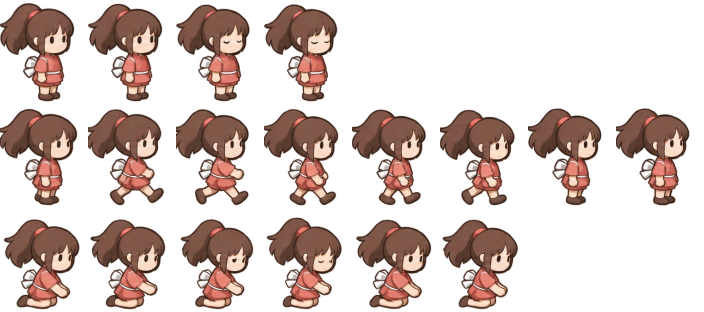
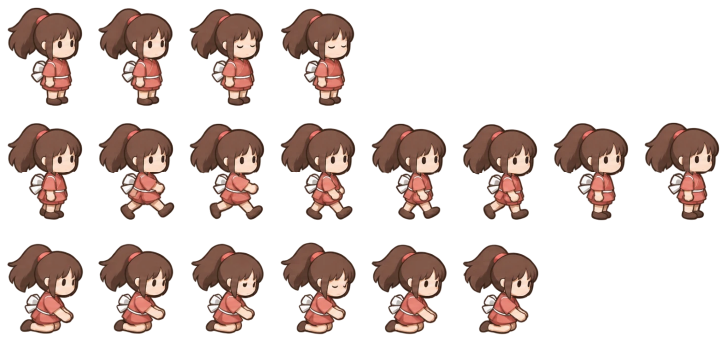
남은 손님 스프라이트 시트 적용, 주인공 걷기 머리 고정
- 얼굴 없는 손님: 둥근 가면·금 간 자국·머리 위 수건의 새 디자인 시트 적용,
  시트가 없을 때 쓰는 코드 그림도 같은 디자인으로 교체
- 일반 손님 8명 시트 적용: 버섯 할멈·돌거북 신·달토끼·학 선인·연잎 개구리 신·
  호랑나비 아씨·방망이 도깨비·눈꽃 정령 (이제 모든 손님이 시트로 그려짐)
- 시트마다 걷기·탕 속 프레임 수와 기뻐하는 칸을 지정 가능 (walkN·bathN·happy)
- 호랑나비 아씨·눈꽃 정령은 바닥에서 띄워 떠다니게
- 주인공 걷기 프레임 8장에 대기 모습의 머리를 그대로 붙여 걸을 때 머리 크기가 바뀌지 않게
- 버섯 할멈이 탕에서 얼굴까지 잠기지 않게 깊이 조정

Changed region(s): [[0.0, 0.0, 1.0, 0.6635], [0.0, 0.6923, 0.75, 1.0]]

diff --git a/js/data.js b/js/data.js
@@ -306,7 +306,7 @@ const SPECIALS = {
     gift: { id: 'fuel', name: '구름 구슬', desc: '보일러 장작이 천천히 닳는다 (소모 −30%)' },
   },
   kaonashi: {
-    name: '얼굴 없는 손님', alias: '검은 그림자', h: 76, bathY: 24,
+    name: '얼굴 없는 손님', alias: '검은 그림자', h: 66, bathY: 24,
     request: { temp: 37, herbs: ['yeon'] }, bath: 30, reward: 0,
     days: [
       { title: '검은 그림자', intro: '요즘 밤마다 검은 그림자를 봤다는 일꾼들이 있다.\n연못가와 창고 구석을 유심히 살펴보자.' },
@@ -494,11 +494,12 @@ const SPECIAL_ENDING = [
  */
 const ASSET_MANIFEST = {
   title_bg: { src: 'assets/title/title_bg.webp' },
-  // 플레이어: 88×104 칸, 1줄 대기(눈 깜빡임) · 2줄 걷기 8프레임 · 3줄 앉아서 작업
+  // 플레이어: 91×114 칸, 1줄 대기(눈 깜빡임) · 2줄 걷기 8프레임 · 3줄 앉아서 작업
+  // 걷기 프레임은 모두 대기 0번의 머리를 그대로 붙여 씀 (걸을 때 머리 크기가 바뀌지 않게)
   chihiro: {
-    src: 'assets/chars/chihiro.png', ax: 0.5, ay: 101 / 104, scale: 0.52,
+    src: 'assets/chars/chihiro.png', ax: 0.4954, ay: 105 / 114, scale: 0.52,
     sheet: {
-      fw: 88, fh: 104,
+      fw: 91, fh: 114,
       anims: {
         idle:  { row: 0, seq: [0, 0, 0, 0, 0, 0, 0, 0, 0, 0, 0, 0, 1, 2, 3, 2, 1], fps: 8 },
         // 걷기: 보폭 프레임과 발 모은 프레임을 번갈아 → 한 발짝마다 리듬이 생김.
@@ -516,16 +517,32 @@ const ASSET_MANIFEST = {
   spiderElder: specialSheet('spiderElder', 181, 139, 0.5914, 135, 0.5, 4, 26, { walk: 1.15, bath: 0.8 }),
   sansin: specialSheet('sansin', 134, 108, 0.4723, 103, 0.6, 4, 20, { walk: 1.05, bath: 0.9 }),
   imugi: specialSheet('imugi', 130, 119, 0.5472, 110, 0.59, 4, 24, { walk: 1.5, bath: 0.8 }),
+  kaonashi: specialSheet('kaonashi', 144, 154, 0.5322, 150, 0.455, 3, 18),
   // 일반 손님도 같은 3줄 형식 시트를 쓸 수 있다 (h: 초상화 크기 맞춤용 키)
   moss: { ...specialSheet('moss', 164, 148, 0.4728, 143, 0.33, 4, 11, { walk: 1.12, bath: 0.78 }), h: 44 },   // 이끼 노인
   // 등롱 요괴: 떠다니는 손님이라 float(px)만큼 바닥에서 띄우고 살짝 오르내린다
   lantern: { ...specialSheet('lantern', 161, 135, 0.5553, 131, 0.32, 4, 14), h: 42, float: 7 },
   fox: { ...specialSheet('fox', 178, 120, 0.489, 116, 0.38, 4, 14), h: 42 },   // 여우불 아가씨
   river: { ...specialSheet('river', 177, 134, 0.4534, 118, 0.42, 4, 12), h: 42, float: 6 },   // 강물 정령 (떠다님)
+  mushroom: { ...specialSheet('mushroom', 139, 144, 0.4658, 140, 0.32, 3, 5), h: 44 },   // 버섯 할멈
+  turtle: { ...specialSheet('turtle', 178, 138, 0.4247, 133, 0.38, 3, 14, { walk: 1.2, bath: 0.9 }), h: 46 },   // 돌거북 신
+  rabbit: { ...specialSheet('rabbit', 146, 165, 0.4828, 158, 0.29, 3, 14, { walk: 1.2, bath: 0.92 }), h: 44 },   // 달토끼
+  crane: { ...specialSheet('crane', 113, 150, 0.4304, 146, 0.36, 3, 16, { walk: 1.13, bath: 0.9, walkN: 7, bathN: 5, happy: 3 }), h: 48 },   // 학 선인
+  frog: { ...specialSheet('frog', 144, 156, 0.5133, 152, 0.31, 3, 14, { walk: 1.15, bath: 0.93, walkN: 7 }), h: 44 },   // 연잎 개구리 신
+  butterfly: { ...specialSheet('butterfly', 132, 159, 0.498, 155, 0.30, 3, 14, { walk: 1.07, bath: 0.95, bathN: 5 }), h: 44, float: 5 },   // 호랑나비 아씨 (날갯짓하며 떠다님)
+  dokkaebi: { ...specialSheet('dokkaebi', 124, 136, 0.4866, 131, 0.35, 3, 12), h: 44 },   // 방망이 도깨비
+  snow: { ...specialSheet('snow', 118, 145, 0.5284, 134, 0.33, 3, 14), h: 44, float: 5 },   // 눈꽃 정령 (떠다님)
 };
 /* 특별한 손님 시트 정의: fw·fh 칸 크기, ax 기준점 가로 위치, foot 발 높이, scale 그릴 크기,
  * idleN 대기 프레임 수, bathY 탕 속에 잠기는 깊이(px),
- * size 걷기·탕 속 줄의 크기 배율 — 원본 시트에서 줄마다 그려진 크기가 달라서 대기 모습 크기에 맞춘다 */
+ * size 걷기·탕 속 줄의 크기 배율 — 원본 시트에서 줄마다 그려진 크기가 달라서 대기 모습 크기에 맞춘다
+ *   walkN·bathN: 걷기·탕 속 프레임 수(기본 6·4), happy: 탕 속에서 기뻐하는 칸 번호(기본 2) */
+/* 탕 속 프레임 순서: 기뻐하는 칸을 뺀 나머지를 두 박자씩 오가다 끝에 기뻐하는 칸 */
+function bathSeq(n, happy) {
+  const rest = [...Array(n).keys()].filter(i => i !== happy);
+  const loop = [...rest, ...rest.slice(1, -1).reverse()].flatMap(i => [i, i]);
+  return [...loop, happy, happy, happy];
+}
 function specialSheet(key, fw, fh, ax, foot, scale, idleN, bathY, size = {}) {
   return {
     src: `assets/chars/${key}.png`, ax, ay: foot / fh, scale, bathY,
@@ -533,8 +550,8 @@ function specialSheet(key, fw, fh, ax, foot, scale, idleN, bathY, size = {}) {
       fw, fh,
       anims: {
         idle:    { row: 0, seq: idleN === 3 ? [0, 1, 2, 1] : [0, 1, 2, 3, 2, 1], fps: 4 },
-        walk:    { row: 1, seq: [0, 1, 2, 3, 4, 5], fps: 9, scale: size.walk || 1 },
-        bath:    { row: 2, seq: [0, 0, 1, 1, 3, 3, 1, 1, 0, 0, 2, 2, 2], fps: 3, scale: size.bath || 1 },
+        walk:    { row: 1, seq: [...Array(size.walkN || 6).keys()], fps: 9, scale: size.walk || 1 },
+        bath:    { row: 2, seq: bathSeq(size.bathN || 4, size.happy ?? 2), fps: 3, scale: size.bath || 1 },
         bathOff: { row: 2, seq: [0, 1], fps: 2, scale: size.bath || 1 },   // 물이 차갑거나 뜨거울 때 — 웃는 얼굴 없이
       },
     },

diff --git a/js/render.js b/js/render.js
@@ -671,26 +671,35 @@ const Render = (() => {
     ctx.restore();
   }
 
+  /* 얼굴 없는 손님: 시트가 없을 때 쓰는 코드 그림 — 시트와 같은 디자인(둥근 가면 · 금 간 자국 · 머리 위 수건) */
   function kaonashi(ctx, x, y, t, alpha = 1, o = {}) {
     if (specialSprite(ctx, 'kaonashi', x, y, t, alpha, o)) return;
     ctx.save();
     ctx.translate(x, y);
     ctx.globalAlpha *= alpha;
-    ell(ctx, 0, 0, 14, 5, 'rgba(0,0,0,0.3)');
-    const sway = Math.sin(t * 1.6) * 1.5;
-    ctx.fillStyle = 'rgba(14,11,20,0.92)';
-    ctx.beginPath(); ctx.moveTo(-15, 0);
-    ctx.bezierCurveTo(-16 + sway * 0.3, -30, -13 + sway, -66, sway, -68);
-    ctx.bezierCurveTo(13 + sway, -66, 16 + sway * 0.3, -30, 15, 0);
-    ctx.quadraticCurveTo(0, 4, -15, 0);
+    ell(ctx, 0, 0, 15, 5, 'rgba(0,0,0,0.3)');
+    const sway = Math.sin(t * 1.6) * 1.2;
+    // 두건을 쓴 남색 몸
+    ctx.fillStyle = '#25283b';
+    ctx.beginPath(); ctx.moveTo(-17, 0);
+    ctx.bezierCurveTo(-18, -28, -15 + sway * 0.5, -58, sway, -60);
+    ctx.bezierCurveTo(15 + sway * 0.5, -58, 18, -28, 17, 0);
+    ctx.quadraticCurveTo(0, 4, -17, 0);
     ctx.fill();
-    const mx = sway * 0.9, my = -50;
-    ell(ctx, mx, my, 8.5, 11.5, '#f4f1ea');
-    ell(ctx, mx - 3.6, my - 2, 2.1, 1.3, '#1a1420'); ell(ctx, mx + 3.6, my - 2, 2.1, 1.3, '#1a1420');
-    ctx.fillStyle = '#7a4c8c';
-    ctx.fillRect(mx - 4.2, my - 9, 1.2, 4); ctx.fillRect(mx + 3, my - 9, 1.2, 4);
-    ctx.fillRect(mx - 4.2, my + 1, 1.2, 3.5); ctx.fillRect(mx + 3, my + 1, 1.2, 3.5);
-    ctx.fillStyle = '#3a2a3a'; ctx.fillRect(mx - 2.5, my + 6.5, 5, 1.2);
+    // 둥근 가면과 금 간 자국, 가는 눈
+    const mx = sway * 0.8 + 3, my = -38;
+    circle(ctx, mx, my, 11, '#f3ede2');
+    ctx.strokeStyle = '#d9a640'; ctx.lineWidth = 1;
+    ctx.beginPath(); ctx.moveTo(mx + 4, my - 10.5); ctx.lineTo(mx + 6.5, my - 5); ctx.lineTo(mx + 3.5, my - 1);
+    ctx.lineTo(mx + 7.5, my + 4); ctx.lineTo(mx + 5, my + 9.5); ctx.stroke();
+    ctx.fillStyle = '#1a1420';
+    ctx.fillRect(mx - 6.5, my - 1, 3.6, 1.3); ctx.fillRect(mx + 2.5, my - 1, 3.6, 1.3);
+    // 가슴께에 모은 두 손
+    circle(ctx, mx - 4, -20, 3.2, '#181a29'); circle(ctx, mx + 2.5, -20, 3.2, '#181a29');
+    // 머리 위에 얹은 수건
+    rrect(ctx, -11 + sway, -66, 21, 8, 4, '#f4f2ec');
+    ctx.fillStyle = '#7d8fd0'; ctx.fillRect(-10 + sway, -61.5, 19, 1.4);
+    ctx.lineWidth = 1;
     ctx.restore();
   }
 

diff --git a/README.md b/README.md
@@ -205,14 +205,15 @@ const ASSET_MANIFEST = {
     - 노렌 글자는 '탕'으로 바꾸고 잠든 여우는 지움. 등불 깜빡임·김·전경 바위·꽃잎은 코드로 얹는 연출
   - `logo.webp`: 타이틀 로고 (투명 여백은 CSS로 잘라서 표시)
 - 플레이어 스프라이트 시트 (`assets/chars/chihiro.png`, 적용됨)
-  - 88×104 칸 · 1줄 대기(눈 깜빡임) / 2줄 걷기 8프레임 / 3줄 앉아서 작업(채집·청소·장작 넣기 중)
-  - 전달받은 시트를 발 위치·몸통 중심으로 정렬해 같은 크기 칸으로 재배치하고 절반 크기로 축소
+  - 91×114 칸 · 1줄 대기(눈 깜빡임) / 2줄 걷기 8프레임 / 3줄 앉아서 작업(채집·청소·장작 넣기 중)
+  - 원본 걷기 프레임은 머리 크기가 프레임마다 달라서, 모든 걷기 프레임에 대기 0번의 머리를 턱·얼굴 위치에 맞춰 붙임
+  - 전달받은 시트를 발 위치·머리 중심으로 정렬해 같은 크기 칸으로 재배치하고 절반 크기로 축소
   - `ASSET_MANIFEST.chihiro.sheet` 에 애니메이션(프레임 순서·속도) 정의, 왼쪽으로 갈 때는 좌우 반전
 - 특별한 손님 스프라이트 시트 (`assets/chars/<손님 키>.png`)
   - 3줄 형식: 1줄 대기 / 2줄 이동 6프레임 / 3줄 탕 속 4프레임(셋째 칸은 기뻐하는 얼굴 — 물 온도가 안 맞으면 생략)
   - `data.js` 의 `specialSheet(키, 칸너비, 칸높이, 기준점x, 발높이, 크기, 대기프레임수, 탕깊이, { walk, bath })` 한 줄로 등록. 마지막 값은 걷기·탕 속 줄을 대기 모습과 같은 크기로 맞추는 배율(원본 시트는 줄마다 그려진 크기가 다름). 시트가 없으면 코드로 그린 오리지널 모습 사용
-  - 적용됨: `riverGod` (강의 신 — 진흙 손님, 180×125 칸), `spiderElder` (거미 할아범, 181×139 칸), `sansin` (산신 할머니, 134×108 칸), `imugi` (구름 이무기, 130×119 칸). 얼굴 없는 손님은 코드 렌더
-  - 일반 손님도 같은 형식으로 교체 가능 (`{ ...specialSheet(...), h: 초상화용 키 }`). 적용됨: `moss` (이끼 노인, 164×148 칸), `lantern` (등롱 요괴, 161×135 칸 — `float` 로 바닥에서 띄움), `fox` (여우불 아가씨, 178×120 칸), `river` (강물 정령, 177×134 칸 — `float`)
+  - 적용됨: `riverGod` (강의 신 — 진흙 손님, 180×125 칸), `spiderElder` (거미 할아범, 181×139 칸), `sansin` (산신 할머니, 134×108 칸), `imugi` (구름 이무기, 130×119 칸), `kaonashi` (얼굴 없는 손님 — 둥근 가면·수건, 144×154 칸)
+  - 일반 손님도 같은 형식으로 교체 가능 (`{ ...specialSheet(...), h: 초상화용 키 }`). 적용됨: `moss` (이끼 노인, 164×148 칸), `lantern` (등롱 요괴, 161×135 칸 — `float` 로 바닥에서 띄움), `fox` (여우불 아가씨, 178×120 칸), `river` (강물 정령, 177×134 칸 — `float`), `mushroom` (버섯 할멈, 139×144 칸), `turtle` (돌거북 신, 178×138 칸), `rabbit` (달토끼, 146×165 칸), `crane` (학 선인, 113×150 칸 — 걷기 7·탕 속 5프레임: `walkN`·`bathN`·`happy`), `frog` (연잎 개구리 신, 144×156 칸 — 걷기 7프레임), `butterfly` (호랑나비 아씨, 132×159 칸 — 탕 속 5프레임, `float`), `dokkaebi` (방망이 도깨비, 124×136 칸), `snow` (눈꽃 정령, 118×145 칸 — `float`)
   - `btn_main.png` / `btn_plain.png`: 메뉴 팻말 (빨간 ♨ / 크림색 벚꽃). 원본에서 투명 여백을 잘라 800px 폭으로 줄임
 
 ## 6일 개발 계획 (참고)
